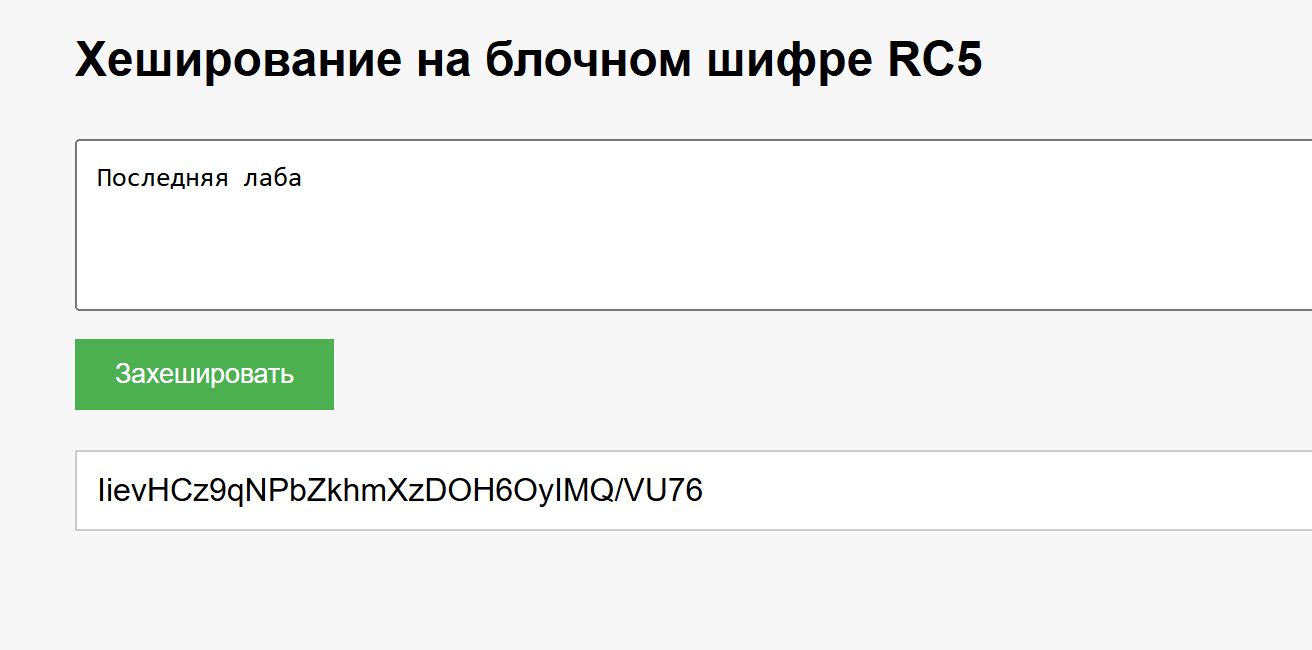
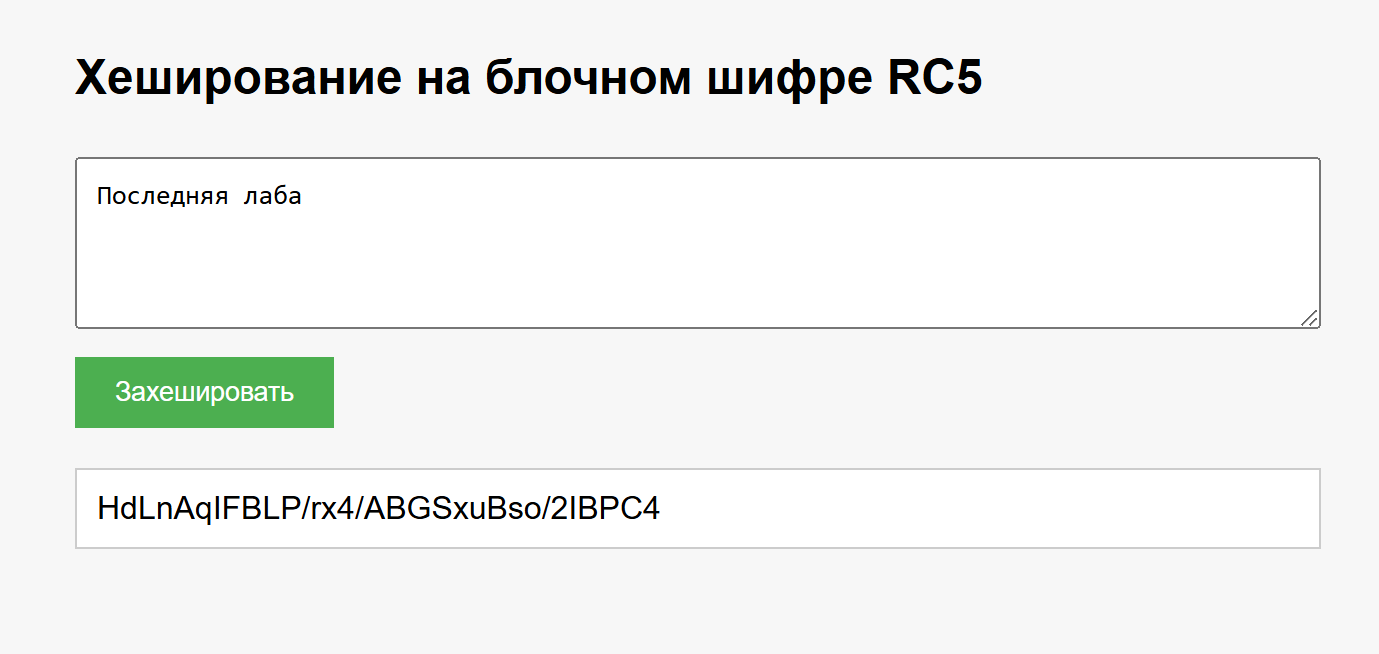
в readme добавлена формула хеширования и исправлена опечатка в методе Hash

diff --git a/Services/CipherService.cs b/Services/CipherService.cs
@@ -53,6 +53,11 @@ namespace Backend.Services
     public string Encrypt(string text, string key)
     {
       byte[] keyBytes = Convert.FromBase64String(key);
+
+      B = keyBytes.Length;
+      C = B / 4;
+      if (B % 4 != 0) C++;
+
       KeyExpansion(keyBytes);
 
       byte[] textBytes = Encoding.UTF8.GetBytes(text);
@@ -181,7 +186,7 @@ namespace Backend.Services
           H_prev[j] ^= M_i[j];
         }
 
-        string encryptedHPrev = Encrypt(Convert.ToBase64String(H_prev), Convert.ToBase64String(keyBytes));
+        string encryptedHPrev = Encrypt(Convert.ToBase64String(H_prev), Convert.ToBase64String(M_i));
         byte[] E_H_prev = Convert.FromBase64String(encryptedHPrev);
 
         byte[] H_i = new byte[24];

diff --git a/readme.md b/readme.md
@@ -3,6 +3,21 @@
 ## Описание
 Этот проект представляет собой учебное приложение, демонстрирующее хеширование на основе блочного шифра RC5. Он включает в себя веб-интерфейс и серверную часть, обрабатывающую запросы.
 
+## Метод хеширования
+
+Для реализации функции хеширования использована следующая схема:
+
+$$
+H_i = E_{(H_{i-1})}(M_i) \oplus M_i \oplus H_{i-1}
+$$
+
+где:
+
+- $H_0$ — инициализируется нулевым вектором.
+- $E(X)$ — шифрование блока $X$ с помощью RC5.
+- $M_i$ — $i$-й блок сообщения.
+- $\oplus$ — поразрядное суммирование по модулю два.
+
 ## Краткое описание метода шифрования RC5
 RC5 — это симметричный блочный шифр, разработанный Роном Ривестом в 1994 году. Он использует переменное количество раундов, размер блока и длину ключа, что делает его гибким и адаптируемым. В данном проекте используется RC5 с 32-битными словами, 12 раундами и 16-байтовым ключом. Шифр включает в себя операции сложения, XOR и циклических сдвигов для обеспечения безопасности.
 
